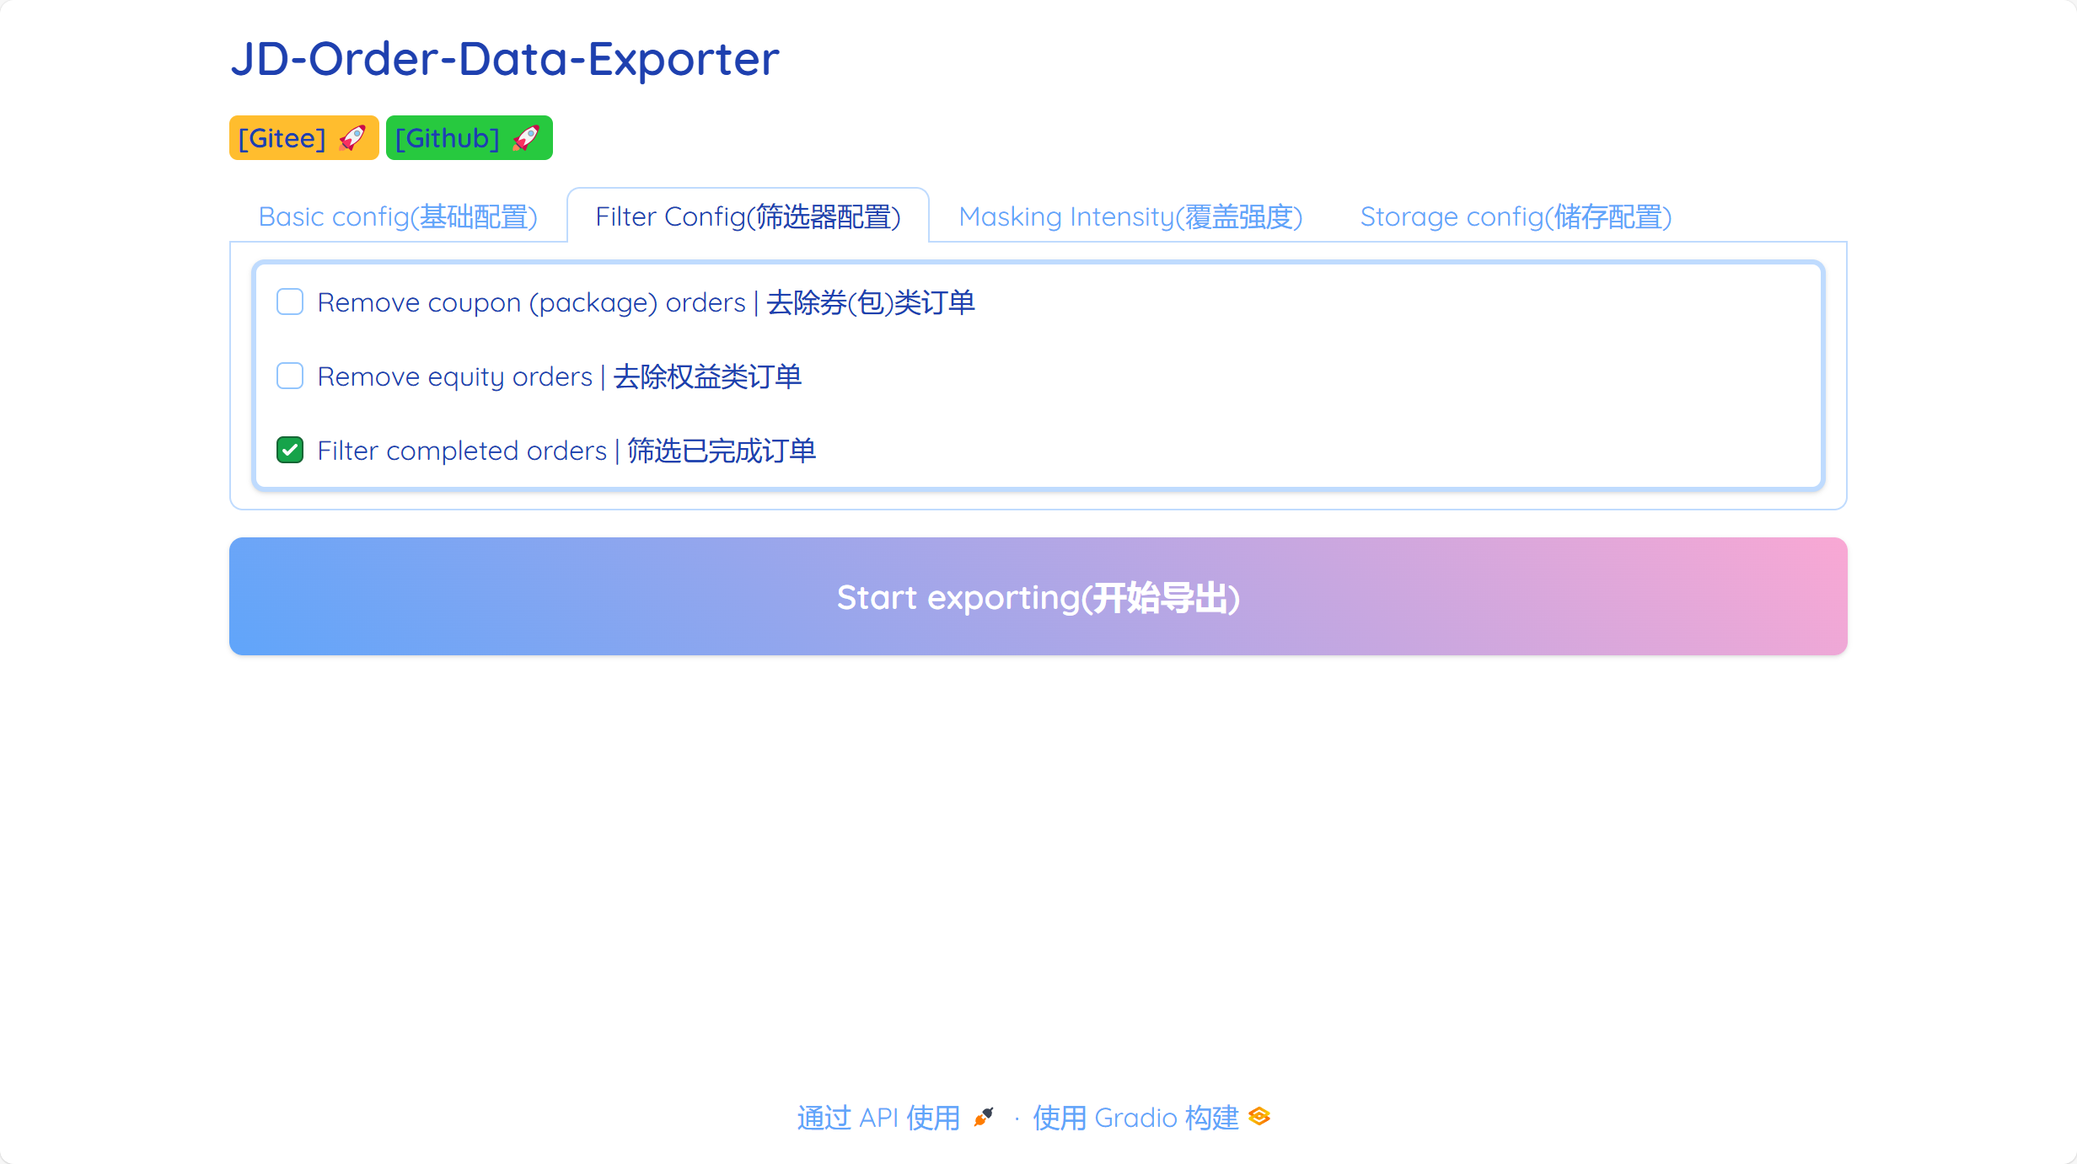
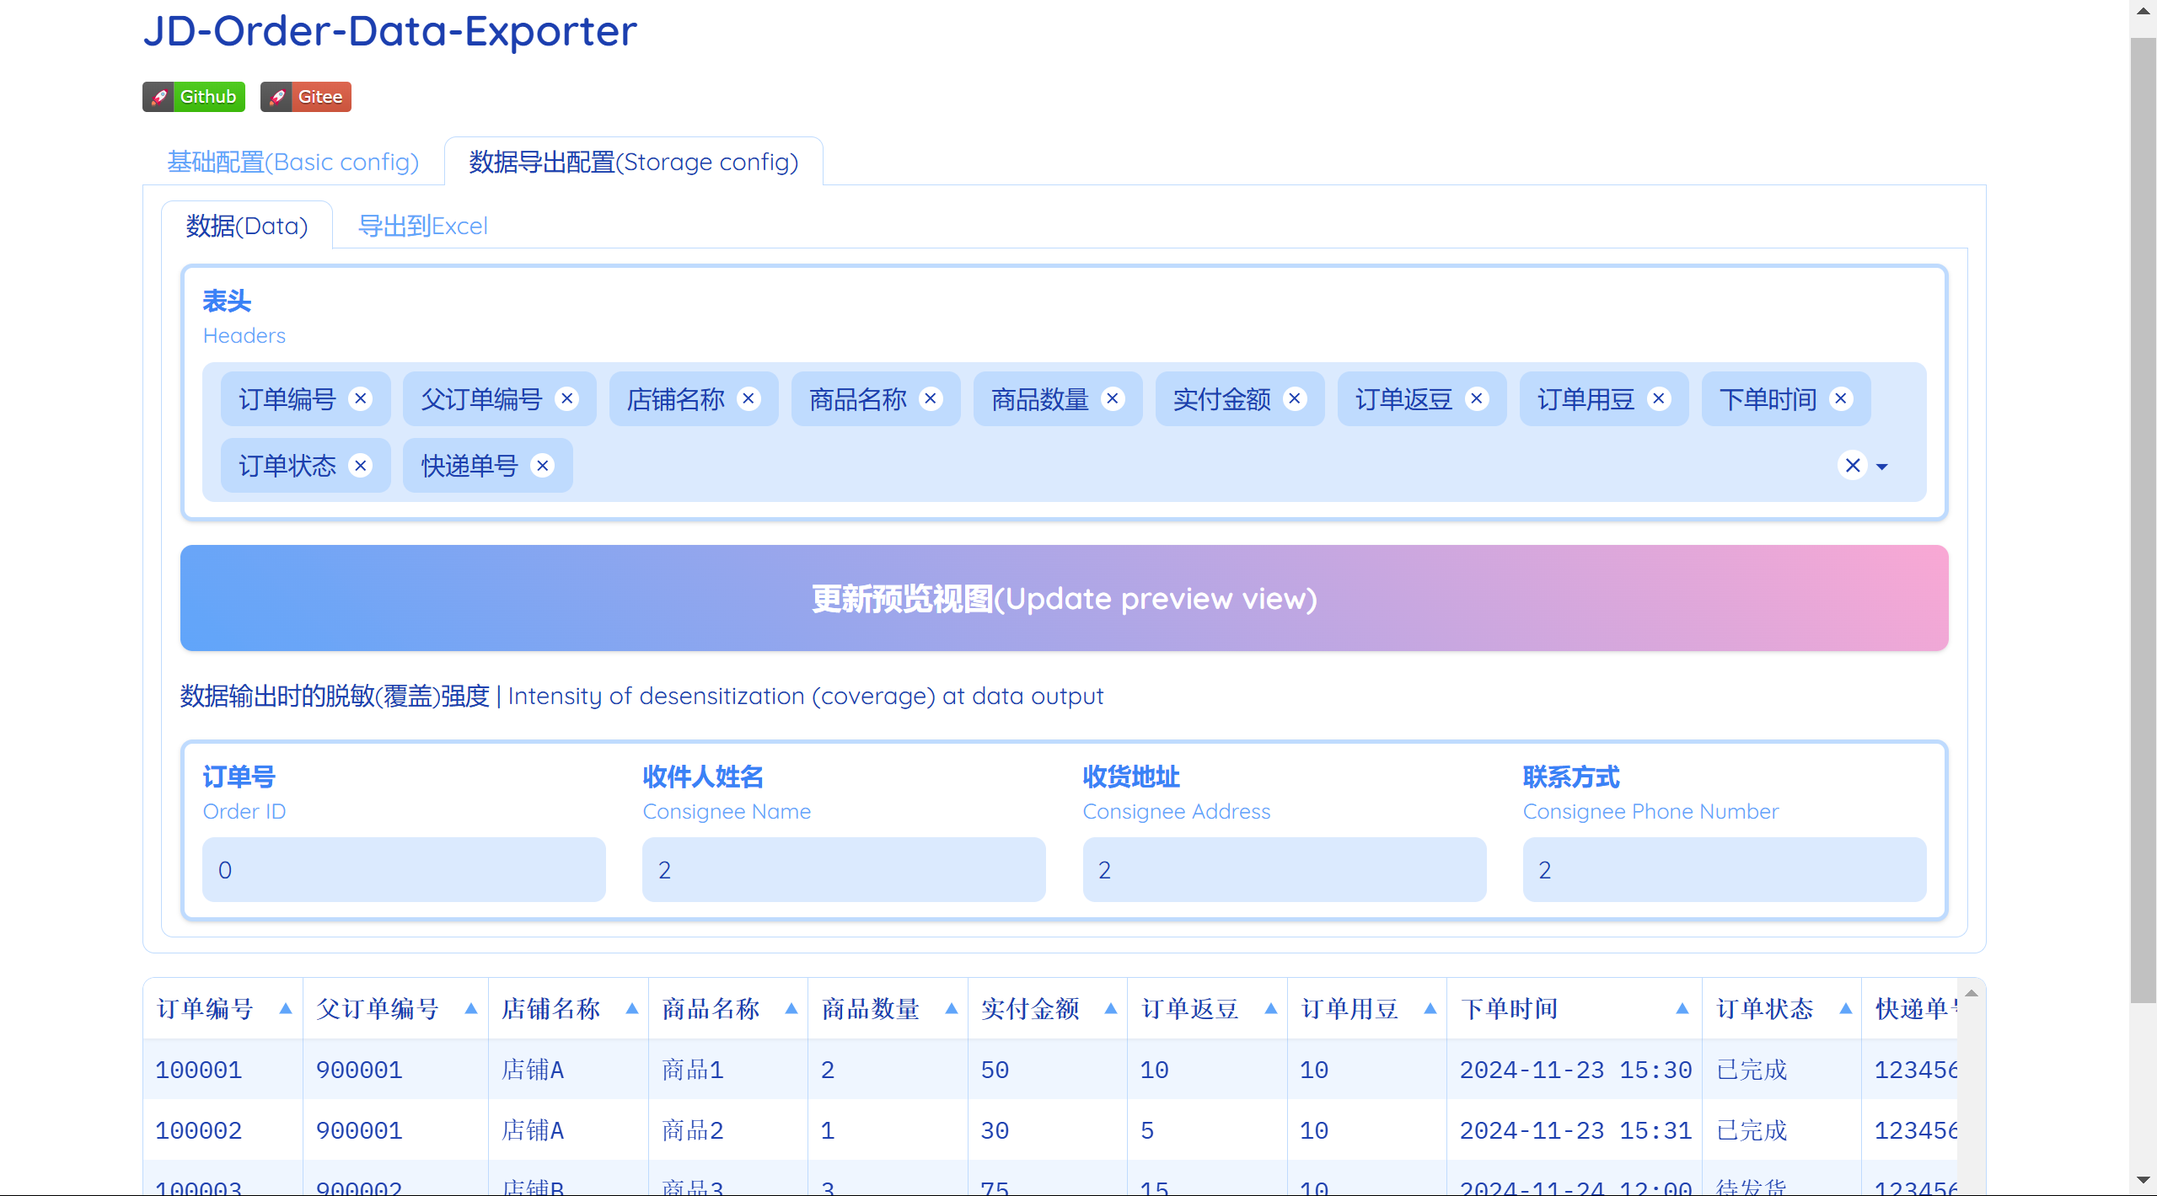
MAINTENANCE: 更新README；修复版本名称错误；
针对新的webUI更新README；修复提交时版本2.1.6, 2.2.7的前置名称错误，详见版本2.2.8的README，提交信息不再变动；

VERSION: JD-PersDataExporter-2.2.8

diff --git a/JD-PersDataExporter/webUI.py b/JD-PersDataExporter/webUI.py
@@ -1,7 +1,7 @@
 '''
 Author: HDJ
 StartDate: please fill in
-LastEditTime: 2024-11-30 00:03:11
+LastEditTime: 2024-12-07 18:11:40
 FilePath: \pythond:\LocalUsers\Goodnameisfordoggy-Gitee\JD-Automated-Tools\JD-PersDataExporter\webUI.py
 Description: 
 
@@ -18,10 +18,9 @@ Copyright (c) 2024 by HDJ, All Rights Reserved.
 
 import os
 import copy
-import shutil
+import socket
 import asyncio
 import aiofiles
-import platform
 import argparse
 import gradio as gr
 import pandas as pd
@@ -255,15 +254,15 @@ class WebUI():
         """
         获取数据
         """
-        exporter = JDOrderDataExporter(self.config)
-        exporter.exec_()
-        return exporter.get_order_info_list()
-        # return [
-        #     {"订单编号": "100001", "父订单编号": "900001", "店铺名称": "店铺A", "商品名称": "商品1", "商品数量": 2, "实付金额": 50.0, "订单返豆": 10, "下单时间": "2024-11-23 15:30", "订单状态": "已完成"},
-        #     {"订单编号": "100002", "父订单编号": "900001", "店铺名称": "店铺A", "商品名称": "商品2", "商品数量": 1, "实付金额": 30.0, "订单返豆": 5, "下单时间": "2024-11-23 15:31", "订单状态": "已完成"},
-        #     {"订单编号": "100003", "父订单编号": "900002", "店铺名称": "店铺B", "商品名称": "商品3", "商品数量": 3, "实付金额": 75.0, "订单返豆": 15, "下单时间": "2024-11-24 12:00", "订单状态": "待发货"},
-        #     {"订单编号": "100004", "父订单编号": "900003", "店铺名称": "店铺C", "商品名称": "商品4", "商品数量": 1, "实付金额": 20.0, "订单返豆": 2, "下单时间": "2024-11-24 13:45", "订单状态": "已取消"}
-        # ]
+        # exporter = JDOrderDataExporter(self.config)
+        # exporter.exec_()
+        # return exporter.get_order_info_list()
+        return [
+            {"订单用豆": 10, "快递单号": "123456789", "订单编号": "100001", "父订单编号": "900001", "店铺名称": "店铺A", "商品名称": "商品1", "商品数量": 2, "实付金额": 50.0, "订单返豆": 10, "下单时间": "2024-11-23 15:30", "订单状态": "已完成"},
+            {"订单用豆": 10, "快递单号": "123456789", "订单编号": "100002", "父订单编号": "900001", "店铺名称": "店铺A", "商品名称": "商品2", "商品数量": 1, "实付金额": 30.0, "订单返豆": 5, "下单时间": "2024-11-23 15:31", "订单状态": "已完成"},
+            {"订单用豆": 10, "快递单号": "123456789", "订单编号": "100003", "父订单编号": "900002", "店铺名称": "店铺B", "商品名称": "商品3", "商品数量": 3, "实付金额": 75.0, "订单返豆": 15, "下单时间": "2024-11-24 12:00", "订单状态": "待发货"},
+            {"订单用豆": 10, "快递单号": "123456789", "订单编号": "100004", "父订单编号": "900003", "店铺名称": "店铺C", "商品名称": "商品4", "商品数量": 1, "实付金额": 20.0, "订单返豆": 2, "下单时间": "2024-11-24 13:45", "订单状态": "已取消"}
+        ]
     
     async def change_preview_headers(self):
         """
@@ -336,9 +335,13 @@ if __name__ == "__main__":
         webui = WebUI()
         demo = webui.construct()
 
+        with socket.socket(socket.AF_INET, socket.SOCK_STREAM) as s:
+            s.bind(('', 0))  # 系统会自动分配一个可用端口
+            dynamic_port = s.getsockname()[1]
+                
         parser = argparse.ArgumentParser(description='JD-PersOrderExporter demo Launch')
         parser.add_argument('--server_name', type=str, default='127.0.0.1', help='Server name')
-        parser.add_argument('--server_port', type=int, default=8888, help='Server port')
+        parser.add_argument('--server_port', type=int, default=dynamic_port, help='Server port')
         args = parser.parse_args()
 
         # 异步启动 Gradio 应用

diff --git a/JD-PersDataExporter/README.md b/JD-PersDataExporter/README.md
@@ -1,5 +1,5 @@
 # JD-PersDataExporter
-version: JD-AutomaticEvaluate-2.2.7
+version: JD-PersDataExporter-2.2.8
 
 ## 简介
 - 该项目是一个本地自动化工具，用于导出京东个人账户的订单信息。
@@ -7,177 +7,110 @@ version: JD-AutomaticEvaluate-2.2.7
 ## 注意事项
 - 保持网络通畅，如遇到页面卡死，丢失，访问失败导致程序异常退出，请重启程序。
 
-## 使用说明
+## 快速开始
 
 #### webUI模式
 
 <center>
 <figure>
     <figcaption>
-    填入账号昵称(必填，用于登录验证)，在两个下拉列表中选择日期跨度与需要的信息，点击按钮“开始导出”，会跳转浏览器到登录界面，正常登录即可。</figcaption>
+    使用下拉列表选择数据获取模式与订单筛选要求，点击按钮“开始导出”，首次运行会跳转浏览器到登录界面，正常登录即可。</figcaption>
     <img src="image/webUI_1.png" alt="webUI_1" width="600">
-    <figcaption>webUI主界面</figcaption>
+    <figcaption>webUI首页</figcaption>
 </figure>
 </center>
 <hr>
 <center>
 <figure>
-    <figcaption>
-    订单类型筛选设置，如需变动请在点击按钮“开始导出”前进行设置。</figcaption>
+    <figcaption>1. 表头请务必保留 `订单编号` 字段，选中的表头字段的顺序即为最终Excel表头顺序。</figcaption>
+    <figcaption>2. 如有数据脱敏需求，自行调节等级；</figcaption>
     <img src="image/webUI_2.png" alt="webUI_2" width="600">
-    <figcaption>筛选器设置界面</figcaption>
-</figure>
-</center>
-<hr>
-<center>
-<figure>
-    <figcaption>
-    脱敏(覆盖)强度选择(0：无，1：弱，2：强)，如需变动请在点击按钮“开始导出”前进行设置。</figcaption>
+    <figcaption>3.每次变更设置后点击 “更新预览视图” 来调整数据表</figcaption>
+    <figcaption>4.数据预览视图包含的数据即为数据导出时的数据</figcaption>
     <img src="image/webUI_3.png" alt="webUI_3" width="600">
-    <figcaption>脱敏强度设置界面</figcaption>
+    <figcaption>数据筛选界面</figcaption>
 </figure>
 </center>
 <hr>
 <center>
 <figure>
-    <figcaption>
-        <p>点击按钮“开始导出”且运行完成后，会在主界面加载出此界面。</p>
-        <p>在此界面可以预览数据，并且可以通过(1.先更改Header中的选项数量或顺序；2.再点击按钮“更改所需数据”)来修改数据预览视图。</p>
-        <p>保存数据：数据预览视图所见即所得。1.选择导出方式；2.填写对应的保存设置；3.点击按钮“储存”</p>
-    </figcaption>
-    <img src="image/webUI_6.png" alt="webUI_4" width="600">
-    <figcaption>数据预览与储存界面</figcaption>
+    <figcaption>导出到Excel有两种方式：</figcaption>
+    <figcaption>1.新建Excel文件</figcaption>
+    <img src="image/webUI_4.png" alt="webUI_4" width="600">
+    <figcaption>2.向已有的Excel文件追加</figcaption>
+    <img src="image/webUI_5.png" alt="webUI_5" width="600">
+    <figcaption>3.两种方式对应的组件只能选择其一，然后点击“储存数据”，若符合要求便会储存成功，然后就可以下载文件了QwQ</figcaption>
+    <img src="image/webUI_6.png" alt="webUI_6" width="600">
+    <figcaption>Excel储存界面</figcaption>
 </figure>
 </center>
-<hr>
-<center>
-<figure>
-    <figcaption>
-    </figcaption>
-    <img src="image/webUI_4.png" alt="webUI_5" width="600">
-    <figcaption>Excel储存设置界面</figcaption>
-</figure>
-</center>
-<hr>
-<center>
-<figure>
-    <figcaption>
-    </figcaption>
-    <img src="image/webUI_5.png" alt="webUI_6" width="600">
-    <figcaption>MySQL储存设置界面</figcaption>
-</figure>
-</center>
-<hr>
 
-#### 纯脚本模式
+
+#### exe模式
 下载解压项目压缩包后按照以下说明进行
-1. 使用前配置：
-    - 打开config.json（配置文件）
-    - 在`"user_name"`后的`""`内填充完整的账号名。该账号名仅用于登录成功验证。
-    - 在`"date_range"`后的`[]`内写入要获取的订单的时间分组。必须写入完整的选项字段！若不设置则默认获取最近三个月订单信息。\
-    示例：`["ALL"]`将获取账号内全部订单信息；`["2022年订单", "2023年订单", "2016年订单"]`将获取2023年，2022年，2016年这三年的全部订单信息。
-  
-        |时间分组可选项(与我的订单页面一致)|
-        |---|
-        |ALL (新增)
-        |近三个月订单
-        |今年内订单
-        |2023年订单
-        |2022年订单
-        |2021年订单
-        |2020年订单
-        |2019年订单
-        |2018年订单
-        |2017年订单
-        |2016年订单
-        |2015年订单
-        |2014年订单
-        |2013年订单
-        |2014年以前订单
-- 在`"header"`后的`[]`中设置需要获取订单的信息类型。默认为全部获取。\
-  示例：`["product_name", "order_id", "amount"]`生成的Excel文件第一列信息为商品名称，第二列信息为订单号，第三列信息为总金额(实付)。
+1. 使用前调整配置文件：
+    (1) 打开config.json（配置文件）
+    (2) 数据获取模式
+        将`data_retrieval_mode`设置为`精简`或`详细`。
+    (3) 订单时间跨度
+        将`date_search`设置为需要的值，可选值与JD订单列表页面提供的一致，如`近三个月订单`，`2023年订单`。
+    (4) 订单状态筛选
+        将`status_search`设置为需要的值，可选值JD订单列表页面提供的值一致，如`已完成`。
+    (5) 高级筛选
+        将`high_search`设置为需要的值，可选值JD订单列表页面提供的值一致，如`已完成`
+    (6) 需要的数据
+        在`headers`中按顺序设置需要的表头，`订单编号`为必选，如`["订单编号", "商品名称", "下单时间"]`。
 
-    |可选项|信息类型|
+    |精简|详细(追加)|
     |---|---|
-    order_id|订单号
-    shop_name|店铺名称
-    product_id|商品编号
-    product_name|商品名称
-    goods_number|商品数量
-    amount|总金额(实付)
-    jingdou|订单返京豆数量
-    order_time|下单时间
-    order_status|订单状态
-    courier_services_company|物流公司/快递名称
-    courier_number|快递单号
-    consignee_name|收件人姓名
-    consignee_address|收货地址
-    consignee_phone_number|收件人联系方式(该信息源已脱敏)
-- `"filter_config"`的子项中可以选择筛选订单的类型，最后会影响输出结果。
-  示例：若`"去除券(包)类订单"`设置为`true`,那么输出的订单中将不包含券(包)类订单。\
-  此外，还设置了通过关键词自定义筛选，其中`"header_item"`的值只能为已有的header_item的名称；`"keyword"`填入要筛选的一个或多个关键词。\
-  示例：若`"header_item"`值为`"product_name"`，`"keyword"`值为`["小米", "泡腾片"]`那么最后只会保留商品名称中存在“小米”或“泡腾片”的订单。
-- `"masking_intensity"`子项的值代表该项信息的脱敏强度。值为int类型。
+    订单编号|物流公司
+    父订单编号|快递单号
+    店铺名称|商品总价
+    商品编号|订单用豆
+    商品名称|
+    商品数量|
+    实付金额|
+    订单返豆|
+    下单时间|
+    订单状态|
+    收货人姓名|
+    收货地址|
+    收货人电话|
   
-  |可选项|强度|
-  |:---:|:---:|
-  0|无
-  1|弱
-  2|强
-
-  如需多次导出到同一文件，请保证每次(至少order_id)的脱敏强度一致。
-  
-- `"export_mode"`的值用于设置数据导出方式。
-
-  |可选项|
-  |---|
-  |excel
-  |mysql
-
-  选择`mysql`请在`mysql_user.ini`文件配置相关信息。
-
 2. 启动工具并使用
-- 双击运行exe文件，等待浏览器跳转到登录界面。
-- 登录你的京东账号，建议使用扫码登录(方便快捷)，其他方式也行。
-- 部分账号有概率会出现二次安全验证。如：图形验证，滑块验证，手机号验证码再次登录验证，身份证前几位和后几位验证等。(再次声明，所有信息均在本地使用和处理，请放心通过安全验证)
-- 等待程序执行，期间不要关闭浏览器窗口(可以最小化)；程序结束会自动关闭终端窗口，此时在exe文件所在目录可以找到包含订单信息的Excel文件。
+  (1) 双击运行exe文件，等待浏览器跳转到登录界面。
+  (2) 登录你的京东账号，建议使用扫码登录(方便快捷)，其他方式也行。
+  (3) 部分账号登录过程中有概率会出现二次安全验证。如：图形验证，滑块验证，手机号验证码再次登录验证，身份证前几位和后几位验证等。(再次声明，所有信息均在本地使用和处理，请放心通过安全验证)
+  (4) 等待程序执行，期间不要关闭浏览器窗口(可以最小化)；程序结束会自动关闭终端窗口，此时在exe文件所在目录可以找到包含订单信息的Excel文件。
 
 ## 环境与依赖
 - python版本: 3.12.0
-- Chrome, 与Chrome对应版本的chromedriver
-- 部分包为较新版本,但不代表低版本不可用.
-  
-    |包名|版本|
-    |:---:|:---:|
-    parsel|1.9.1
-    selenium|4.21.0
-    openpyxl|3.1.2
-    pandas|2.2.2
-    mysql-connector-python|8.4.0
-    gradio|4.36.1
+- Edge或Chrome浏览器，其余未经测试。
+- 部分包为较新版本，并不代表低版本不可用，详见 requirements.txt.
   
 # Update log
-- JD-AutomaticEvaluate-2.2.7: 业务逻辑重构完成；webUI重构完成；
-- JD-AutomaticEvaluate-2.1.6: webUI重构，配置微调
-- 2.1.5: 使用 playwrite 框架进行重构，并调整脚本逻辑；
-- 2.1.4: 优化了Excel储存方式中对列数据类型与单元格格式的设置
-- 2.1.3: 优化了DatabaseManager，使数据库的连接与使用更优雅。
-- 2.1.2: 优化了物流公司和物流单号的获取方法。
-- 2.1.1: 为webUI添加了跟随系统明暗模式的主题。
-- 2.0.1：优化了部分脚本逻辑，使浏览器的生存周期更合理。
-- 2.0.0: 为脚本添加了webUI入口，具有简单的样式设计，使其更美观，易使用。
-- 1.8.7: 优化了从订单详情获取数据的部分方法(添加脱敏(覆盖)，正则优化)。
-- 1.8.6：新增了部分数据信息的获取，导出。
-- 1.7.6：为所有模块添加了简单的日志记录，使用全局配置管理。
-- 1.6.6: 补齐了所有模块对应的test文件。
-- 1.6.5: 添加了英文的README文件。
-- 1.6.4: 将两种数据导出方式(Excel, MySQL), 对同一文件的覆盖改为追加。 
-- 1.6.3: 新增了对部分敏感信息脱敏(覆盖)强度的选择。
-- 1.5.3: 简单重构，添加了test目录来测试部分必要的模块；添加了requirements.txt。
-- 1.4.3: 定义了一个表（数据类型），方便数据传递和方法的集成。
-- 1.3.3: 新增数据导出方式，导出到MySQL服务器。
-- 1.2.3: 将部分类属性私有化；修复了自定义筛选订单类型功能，在部分情况下的异常。
-- 1.2.2：将项目按照面向对象规则重组，并使用包结构管理源码。
-- 1.1.2: 优化了数据筛选方法。减少了数据迭代次数，提升了性能。
-- 1.1.1：新增了订单类型筛选功能。
-- 1.0.1: 优化了商品名称，商品数量获取方法。考虑了一个订单号下有多个同店铺商品未进行订单拆分的情况。
+- JD-PersDataExporter-2.2.8: 更新README；修复版本名称错误；
+- JD-PersDataExporter-2.2.7: 业务逻辑重构完成；webUI重构完成；
+- JD-PersDataExporter-2.1.6: webUI重构，配置微调
+- JD-PersDataExporter-2.1.5: 使用 playwrite 框架进行重构，并调整脚本逻辑；
+- JD-PersDataExporter-2.1.4: 优化了Excel储存方式中对列数据类型与单元格格式的设置
+- JD-PersDataExporter-2.1.3: 优化了DatabaseManager，使数据库的连接与使用更优雅。
+- JD-PersDataExporter-2.1.2: 优化了物流公司和物流单号的获取方法。
+- JD-PersDataExporter-2.1.1: 为webUI添加了跟随系统明暗模式的主题。
+- JD-PersDataExporter-2.0.1：优化了部分脚本逻辑，使浏览器的生存周期更合理。
+- JD-PersDataExporter-2.0.0: 为脚本添加了webUI入口，具有简单的样式设计，使其更美观，易使用。
+- JD-PersDataExporter-1.8.7: 优化了从订单详情获取数据的部分方法(添加脱敏(覆盖)，正则优化)。
+- JD-PersDataExporter-1.8.6：新增了部分数据信息的获取，导出。
+- JD-PersDataExporter-1.7.6：为所有模块添加了简单的日志记录，使用全局配置管理。
+- JD-PersDataExporter-1.6.6: 补齐了所有模块对应的test文件。
+- JD-PersDataExporter-1.6.5: 添加了英文的README文件。
+- JD-PersDataExporter-1.6.4: 将两种数据导出方式(Excel, MySQL), 对同一文件的覆盖改为追加。 
+- JD-PersDataExporter-1.6.3: 新增了对部分敏感信息脱敏(覆盖)强度的选择。
+- JD-PersDataExporter-1.5.3: 简单重构，添加了test目录来测试部分必要的模块；添加了requirements.txt。
+- JD-PersDataExporter-1.4.3: 定义了一个表（数据类型），方便数据传递和方法的集成。
+- JD-PersDataExporter-1.3.3: 新增数据导出方式，导出到MySQL服务器。
+- JD-PersDataExporter-1.2.3: 将部分类属性私有化；修复了自定义筛选订单类型功能，在部分情况下的异常。
+- JD-PersDataExporter-1.2.2：将项目按照面向对象规则重组，并使用包结构管理源码。
+- JD-PersDataExporter-1.1.2: 优化了数据筛选方法。减少了数据迭代次数，提升了性能。
+- JD-PersDataExporter-1.1.1：新增了订单类型筛选功能。
+- JD-PersDataExporter-1.0.1: 优化了商品名称，商品数量获取方法。考虑了一个订单号下有多个同店铺商品未进行订单拆分的情况。
